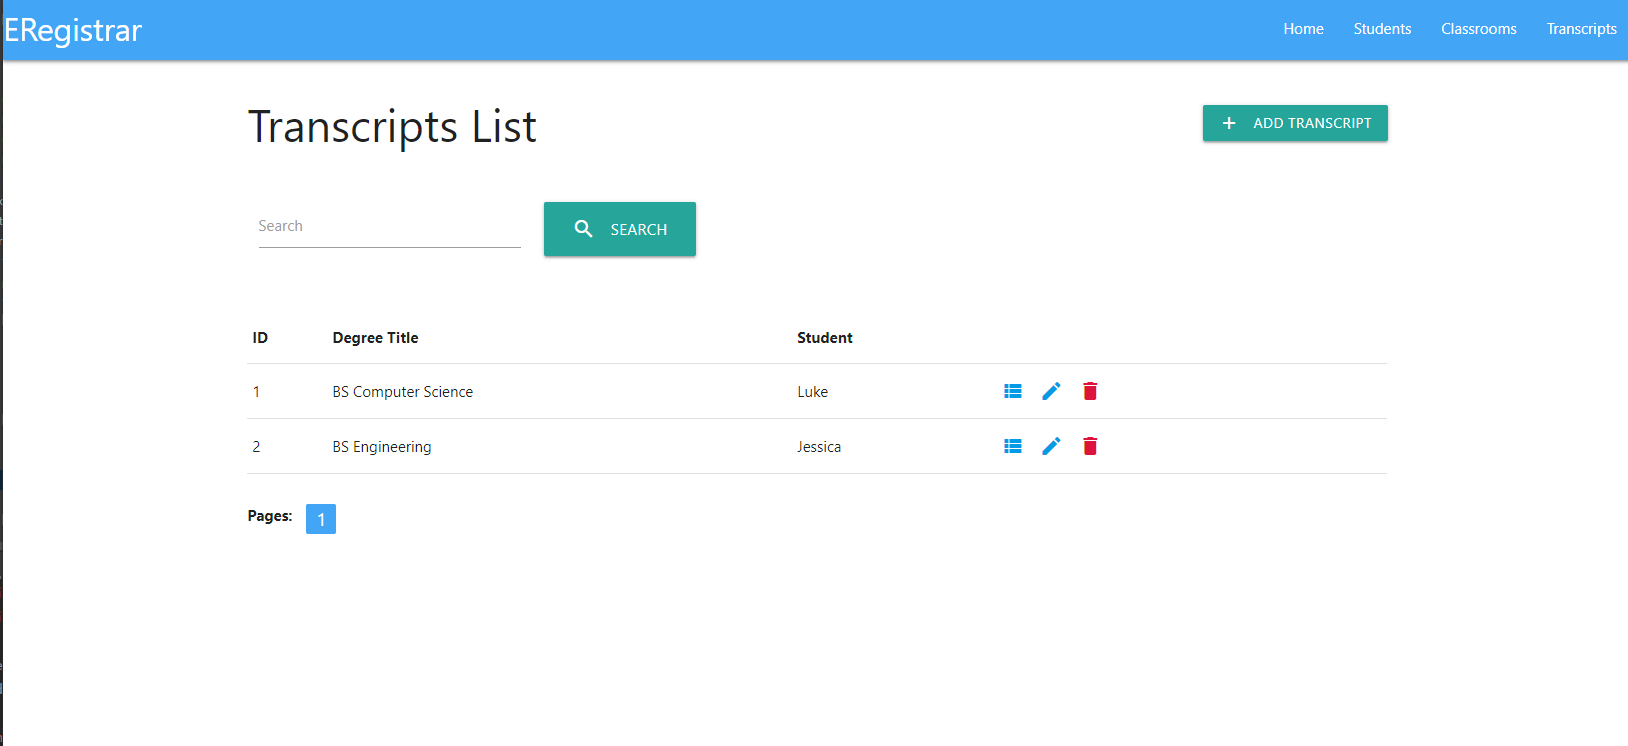
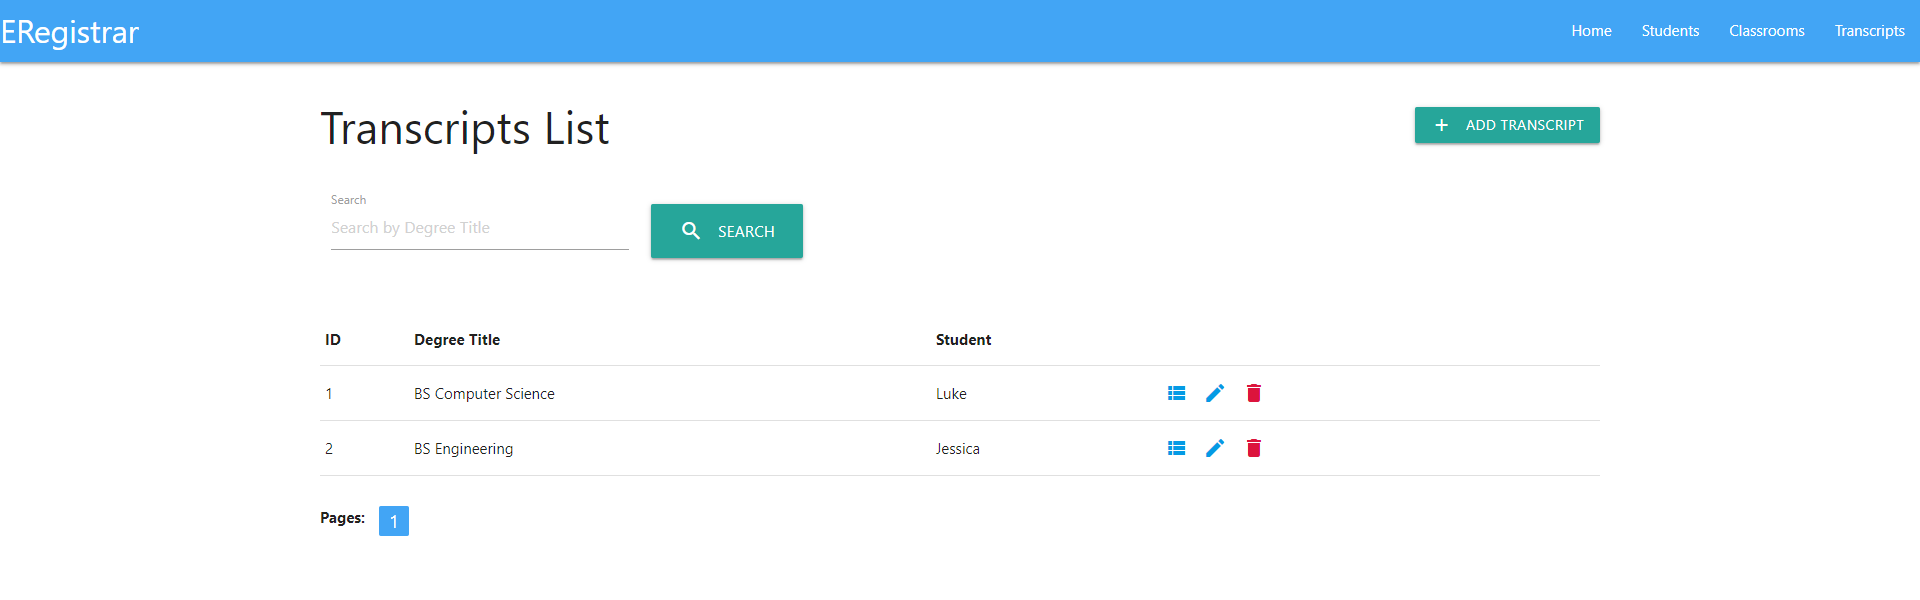
Added Search Functionality. Fixed some bugs.

diff --git a/src/main/resources/templates/views/transcript/search.html b/src/main/resources/templates/views/transcript/search.html
@@ -5,27 +5,11 @@
 </head>
 <body>
     <div style="margin: 2rem 0;">
-        <span style="font-size: 3em;">Transcripts List</span>
+        <span style="font-size: 3em;">Transcript Search Results</span>
         <span style="float:right; margin-top: 1rem;">
-            <a th:href="@{'/transcripts/add'}"
-               class="waves-effect waves-light btn"><i class="material-icons left">add</i>Add Transcript</a>
+            <a th:href="@{'/transcripts'}"
+               class="waves-effect waves-light btn"><i class="material-icons left">arrow_back</i>Go Back to Transcript List</a>
         </span>
-    </div>
-    <!-- Search -->
-    <div class="row">
-        <form class="col s6" th:action="@{/transcripts/search}" method="get">
-            <div class="row">
-                <div class="input-field col s6">
-                    <input id="search" placeholder="Search by Degree Title" type="search" class="validate" th:name="keyword">
-                    <label for="search">Search</label>
-                </div>
-                <div class="input-field col s6" style="float:right;">
-                    <button class="waves-effect waves-light btn-large" type="submit">
-                        <i class="material-icons left">search</i>Search
-                    </button>
-                </div>
-            </div>
-        </form>
     </div>
     <table class="responsive-table highlight">
         <tr>
@@ -53,15 +37,15 @@
         <ul class="pagination" th:if="${transcripts!=null and !transcripts.isEmpty()}">
             <li class="disabled" style="font-weight: bold; margin-right: 10px;">Pages: </li>
             <li
-                    th:each="i : ${#numbers.sequence(1, transcripts.totalPages)}"
-                    th:class="${currentPageNo}==${i-1}?'blue lighten-1 active':'blue lighten-1'"
-            >
+                th:each="i : ${#numbers.sequence(1, transcripts.totalPages)}"
+                th:class="${currentPageNo}==${i-1}?'blue lighten-1 active':'blue lighten-1'"
+                >
                 <a th:href="@{/transcripts/search(pageNo=${i-1})}"
                    th:text="${i}" class = "page-link"></a>
             </li>
         </ul>
         <ul class="pagination" th:if="${transcripts==null or transcripts.isEmpty()}">
-            <li class="disabled" style="font-weight: bold; margin-right: 10px;">No Transcripts Found</li>
+            <li class="disabled" style="font-weight: bold; margin-right: 10px;">No Transcripts Found for Your Search Query</li>
         </ul>
     </div>
 </body>

diff --git a/src/main/resources/templates/views/classroom/search.html b/src/main/resources/templates/views/classroom/search.html
@@ -5,27 +5,11 @@
 </head>
 <body>
     <div style="margin: 2rem 0;">
-        <span style="font-size: 3em;">Classrooms List</span>
+        <span style="font-size: 3em;">Classroom Search Results</span>
         <span style="float:right; margin-top: 1rem;">
-                <a th:href="@{'/classrooms/add'}"
-                   class="waves-effect waves-light btn"><i class="material-icons left">add</i>Add Classroom</a>
-            </span>
-    </div>
-    <!-- Search -->
-    <div class="row">
-        <form class="col s6" th:action="@{/classrooms/search}" method="get">
-            <div class="row">
-                <div class="input-field col s6">
-                    <input id="search" placeholder="Search by Building Name" type="search" class="validate" th:name="keyword">
-                    <label for="search">Search</label>
-                </div>
-                <div class="input-field col s6" style="float:right;">
-                    <button class="waves-effect waves-light btn-large" type="submit">
-                        <i class="material-icons left">search</i>Search
-                    </button>
-                </div>
-            </div>
-        </form>
+            <a th:href="@{'/classrooms'}"
+               class="waves-effect waves-light btn"><i class="material-icons left">arrow_back</i>Go Back to Classroom List</a>
+        </span>
     </div>
     <table class="responsive-table highlight">
         <tr>

diff --git a/src/main/resources/templates/views/student/search.html b/src/main/resources/templates/views/student/search.html
@@ -5,27 +5,11 @@
 </head>
 <body>
     <div style="margin: 2rem 0;">
-        <span style="font-size: 3em;">Students List</span>
+        <span style="font-size: 3em;">Student Search Results</span>
         <span style="float:right; margin-top: 1rem;">
-            <a th:href="@{'/students/add'}"
-               class="waves-effect waves-light btn"><i class="material-icons left">add</i>Add Student</a>
+            <a th:href="@{'/students'}"
+               class="waves-effect waves-light btn"><i class="material-icons left">arrow_back</i>Go Back to Students List</a>
         </span>
-    </div>
-    <!-- Search -->
-    <div class="row">
-        <form class="col s6" th:action="@{/students/search}" method="get">
-            <div class="row">
-                <div class="input-field col s6">
-                    <input id="search" placeholder="Search by First Name" type="search" class="validate" th:name="keyword">
-                    <label for="search">Search</label>
-                </div>
-                <div class="input-field col s6" style="float:right;">
-                    <button class="waves-effect waves-light btn-large" type="submit">
-                        <i class="material-icons left">search</i>Search
-                    </button>
-                </div>
-            </div>
-        </form>
     </div>
     <table class="responsive-table highlight">
         <tr>

diff --git a/src/main/java/edu/mum/se/eregistrar/controllers/TranscriptController.java b/src/main/java/edu/mum/se/eregistrar/controllers/TranscriptController.java
@@ -38,14 +38,14 @@ public class TranscriptController {
 		return "views/transcript/list";
 	}
 
-	@GetMapping("/transcripts/{degreeTitle}")
-	public String getTranscriptByDegreeTitle(@PathVariable @Valid String degreeTitle,
+	@GetMapping("/transcripts/search")
+	public String getTranscriptByDegreeTitle(@RequestParam("keyword") @Valid String keyword,
 	                                         @RequestParam(defaultValue = "0") @Valid int pageNo,
 	                                         Model model) {
-		model.addAttribute("transcripts", transcriptService.findTranscriptByDegreeTitle(degreeTitle, pageNo));
+		model.addAttribute("transcripts", transcriptService.findTranscriptByDegreeTitle(keyword, pageNo));
 		model.addAttribute("currentPageNo", pageNo);
 
-		return "views/transcript/list";
+		return "views/transcript/search";
 	}
 
 	@GetMapping("/transcripts/{id}")

diff --git a/src/main/java/edu/mum/se/eregistrar/repositories/TranscriptRepository.java b/src/main/java/edu/mum/se/eregistrar/repositories/TranscriptRepository.java
@@ -4,6 +4,8 @@ import edu.mum.se.eregistrar.model.Transcript;
 import org.springframework.data.domain.Page;
 import org.springframework.data.domain.Pageable;
 import org.springframework.data.jpa.repository.JpaRepository;
+import org.springframework.data.jpa.repository.Query;
+import org.springframework.data.repository.query.Param;
 import org.springframework.stereotype.Repository;
 
 /**
@@ -12,5 +14,6 @@ import org.springframework.stereotype.Repository;
 
 @Repository
 public interface TranscriptRepository extends JpaRepository<Transcript, Long> {
-	Page<Transcript> findByDegreeTitle(String degreeTitle, Pageable pageable);
+	@Query("select t from Transcript t where degreeTitle like %:degreeTitle%")
+	Page<Transcript> findByDegreeTitle(@Param("degreeTitle") String degreeTitle, Pageable pageable);
 }

diff --git a/src/main/java/edu/mum/se/eregistrar/repositories/ClassroomRepository.java b/src/main/java/edu/mum/se/eregistrar/repositories/ClassroomRepository.java
@@ -1,7 +1,11 @@
 package edu.mum.se.eregistrar.repositories;
 
 import edu.mum.se.eregistrar.model.Classroom;
+import org.springframework.data.domain.Page;
+import org.springframework.data.domain.Pageable;
 import org.springframework.data.jpa.repository.JpaRepository;
+import org.springframework.data.jpa.repository.Query;
+import org.springframework.data.repository.query.Param;
 import org.springframework.stereotype.Repository;
 
 /**
@@ -10,4 +14,6 @@ import org.springframework.stereotype.Repository;
 
 @Repository
 public interface ClassroomRepository extends JpaRepository<Classroom, Long> {
+	@Query("select c from Classroom c where buildingName like %:buildingName%")
+	Page<Classroom> findByBuildingName(@Param("buildingName") String buildingName, Pageable pageable);
 }

diff --git a/src/main/java/edu/mum/se/eregistrar/repositories/StudentRepository.java b/src/main/java/edu/mum/se/eregistrar/repositories/StudentRepository.java
@@ -1,7 +1,11 @@
 package edu.mum.se.eregistrar.repositories;
 
 import edu.mum.se.eregistrar.model.Student;
+import org.springframework.data.domain.Page;
+import org.springframework.data.domain.Pageable;
 import org.springframework.data.jpa.repository.JpaRepository;
+import org.springframework.data.jpa.repository.Query;
+import org.springframework.data.repository.query.Param;
 import org.springframework.stereotype.Repository;
 
 /**
@@ -10,4 +14,6 @@ import org.springframework.stereotype.Repository;
 
 @Repository
 public interface StudentRepository extends JpaRepository<Student, Long> {
+	@Query("select s from Student s where firstName like %:firstName%")
+	Page<Student> findByFirstName(@Param("firstName") String firstName, Pageable pageable);
 }

diff --git a/src/main/java/edu/mum/se/eregistrar/controllers/ClassroomController.java b/src/main/java/edu/mum/se/eregistrar/controllers/ClassroomController.java
@@ -36,6 +36,16 @@ public class ClassroomController {
 		return "views/classroom/list";
 	}
 
+	@GetMapping("/classrooms/search")
+	public String getClassroomsByBuildingName(@RequestParam("keyword") @Valid String keyword,
+	                                         @RequestParam(defaultValue = "0") @Valid int pageNo,
+	                                         Model model) {
+		model.addAttribute("classrooms", classroomService.findClassroomByBuildingName(keyword, pageNo));
+		model.addAttribute("currentPageNo", pageNo);
+
+		return "views/classroom/search";
+	}
+
 	@GetMapping("/classrooms/{id}")
 	public String getClassroom(@PathVariable @Valid Long id, Model model) {
 		model.addAttribute("classroom", classroomService.findById(id));

diff --git a/src/main/java/edu/mum/se/eregistrar/controllers/StudentController.java b/src/main/java/edu/mum/se/eregistrar/controllers/StudentController.java
@@ -31,6 +31,16 @@ public class StudentController {
 		return "views/student/list";
 	}
 
+	@GetMapping("/students/search")
+	public String getStudentsByFirstName(@RequestParam("keyword") @Valid String keyword,
+                                         @RequestParam(defaultValue = "0") @Valid int pageNo,
+                                         Model model) {
+		model.addAttribute("students", studentService.findStudentByFirstName(keyword, pageNo));
+		model.addAttribute("currentPageNo", pageNo);
+
+		return "views/student/search";
+	}
+
 	@GetMapping("/students/{id}")
 	public String getStudent(@PathVariable @Valid Long id, Model model) {
 		model.addAttribute("student", studentService.findById(id));

diff --git a/src/main/java/edu/mum/se/eregistrar/services/datajpa/ClassroomDataJPAService.java b/src/main/java/edu/mum/se/eregistrar/services/datajpa/ClassroomDataJPAService.java
@@ -34,6 +34,11 @@ public class ClassroomDataJPAService implements ClassroomService {
 	}
 
 	@Override
+	public Page<Classroom> findClassroomByBuildingName(String buildingName, int pageNo) {
+		return classroomRepository.findByBuildingName(buildingName, PageRequest.of(pageNo, 3, Sort.by("buildingName")));
+	}
+
+	@Override
 	public Classroom create(Classroom classroom) {
 		return classroomRepository.save(classroom);
 	}

diff --git a/src/main/java/edu/mum/se/eregistrar/services/datajpa/StudentDataJPAService.java b/src/main/java/edu/mum/se/eregistrar/services/datajpa/StudentDataJPAService.java
@@ -32,6 +32,11 @@ public class StudentDataJPAService implements StudentService {
 	}
 
 	@Override
+	public Page<Student> findStudentByFirstName(String firstName, int pageNo) {
+		return studentRepository.findByFirstName(firstName, PageRequest.of(pageNo, 3, Sort.by("firstName")));
+	}
+
+	@Override
 	public Student create(Student student) {
 		return studentRepository.save(student);
 	}

diff --git a/src/main/java/edu/mum/se/eregistrar/services/ClassroomService.java b/src/main/java/edu/mum/se/eregistrar/services/ClassroomService.java
@@ -1,10 +1,12 @@
 package edu.mum.se.eregistrar.services;
 
 import edu.mum.se.eregistrar.model.Classroom;
+import org.springframework.data.domain.Page;
 
 /**
  * Created by Jonathan on 10/9/2019.
  */
 
 public interface ClassroomService extends CrudService<Classroom, Long> {
+	Page<Classroom> findClassroomByBuildingName(String buildingName, int pageNo);
 }
